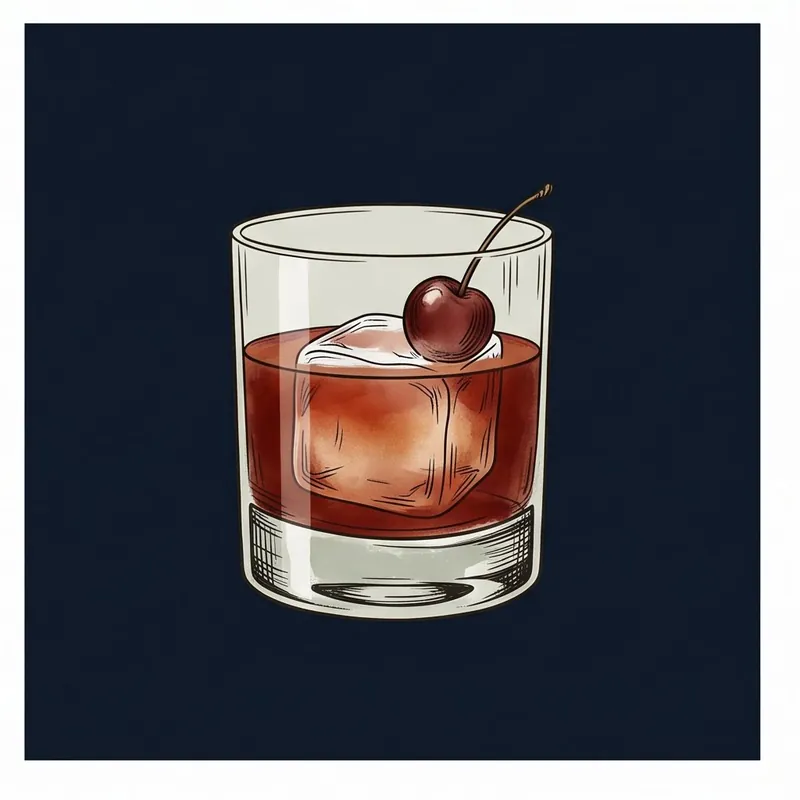
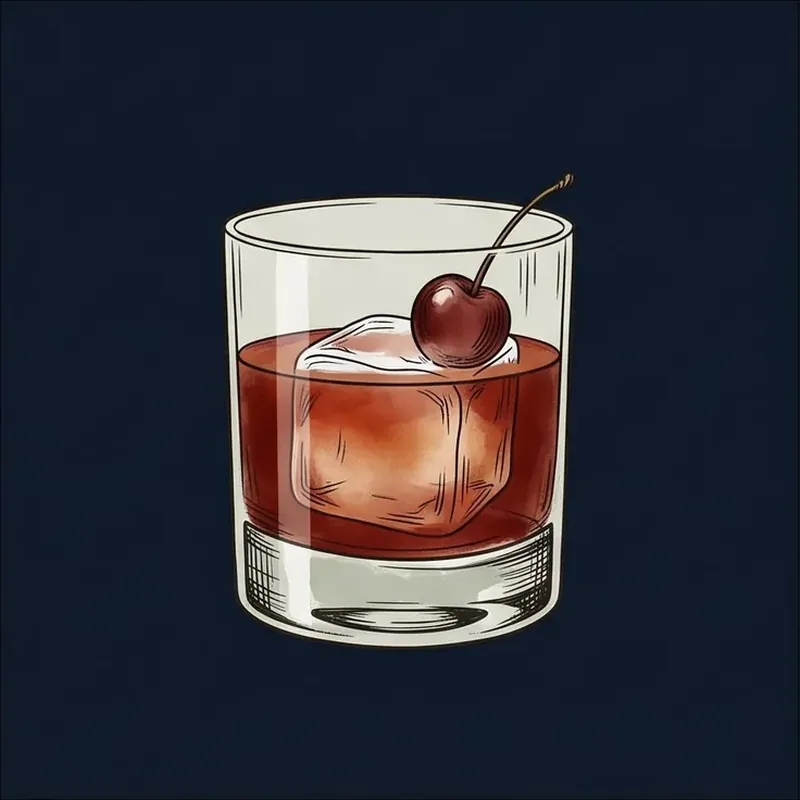
Add files via upload

Changed region(s): [[0.2812, 0.2188, 0.7188, 0.8125], [0.0, 0.0, 1.0, 1.0]]

diff --git a/CHANGELOG-20260831.md b/CHANGELOG-20260831.md
@@ -10,6 +10,9 @@
 2. 登记扩到 25 款，其余 25 款继续显示线条杯型图，后续分批补齐。
 3. 每款图形按酒谱字段绘制：杯型/冰型/装饰白名单/酒液颜色，
    重点易错项（萨泽拉克绝对干无冰、朱利普金属杯、骡子铜杯、日出渐变）已逐张核对。
+4. **白边修复**：6 张图（威士忌酸/纽约酸/白俄罗斯/老广场/青霉素/莫斯科骡子）
+   生成时自带白色背景边，已按"暗色内容包围盒裁切→补方→重压缩"程序化修复，
+   25 张边缘亮度全表复核通过。后续批次生成流水线加入同款自检。
 
 ---
 
